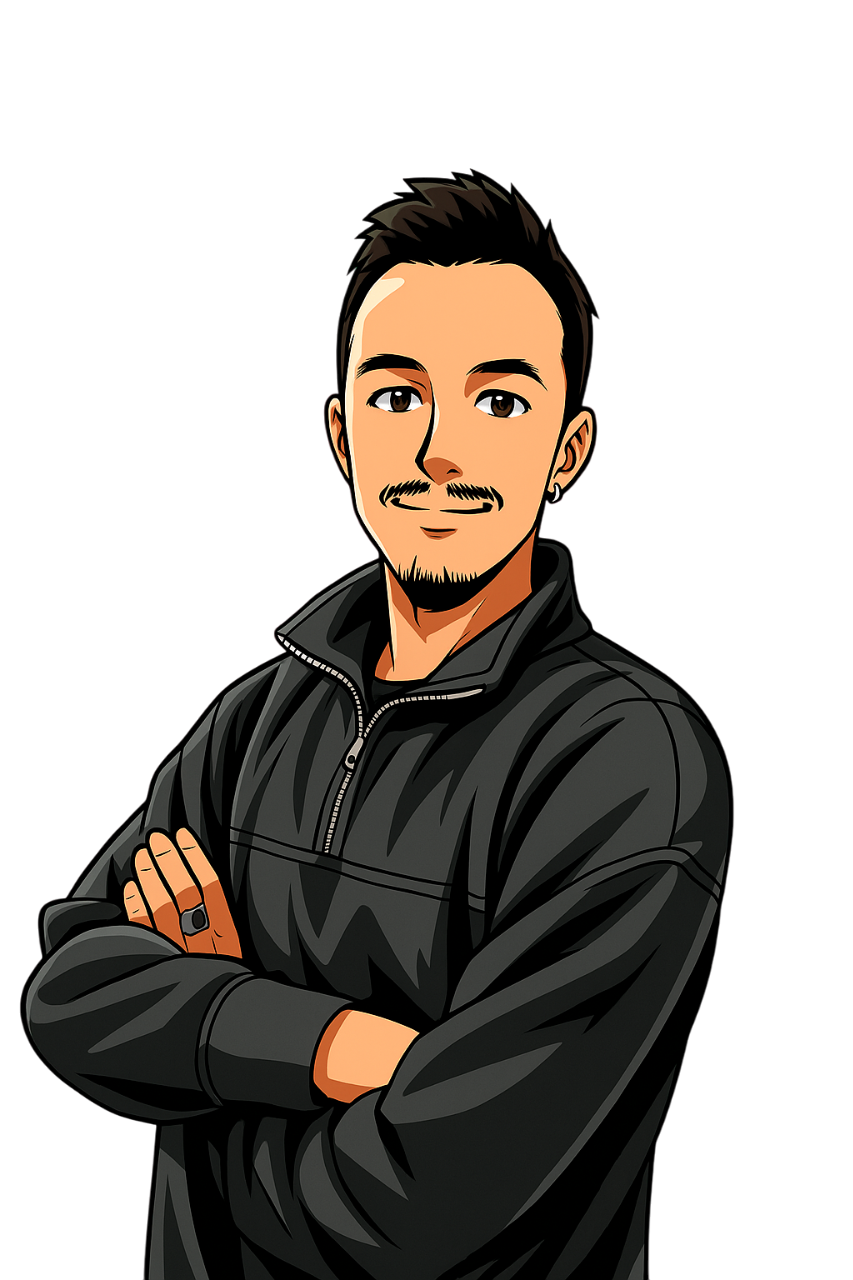
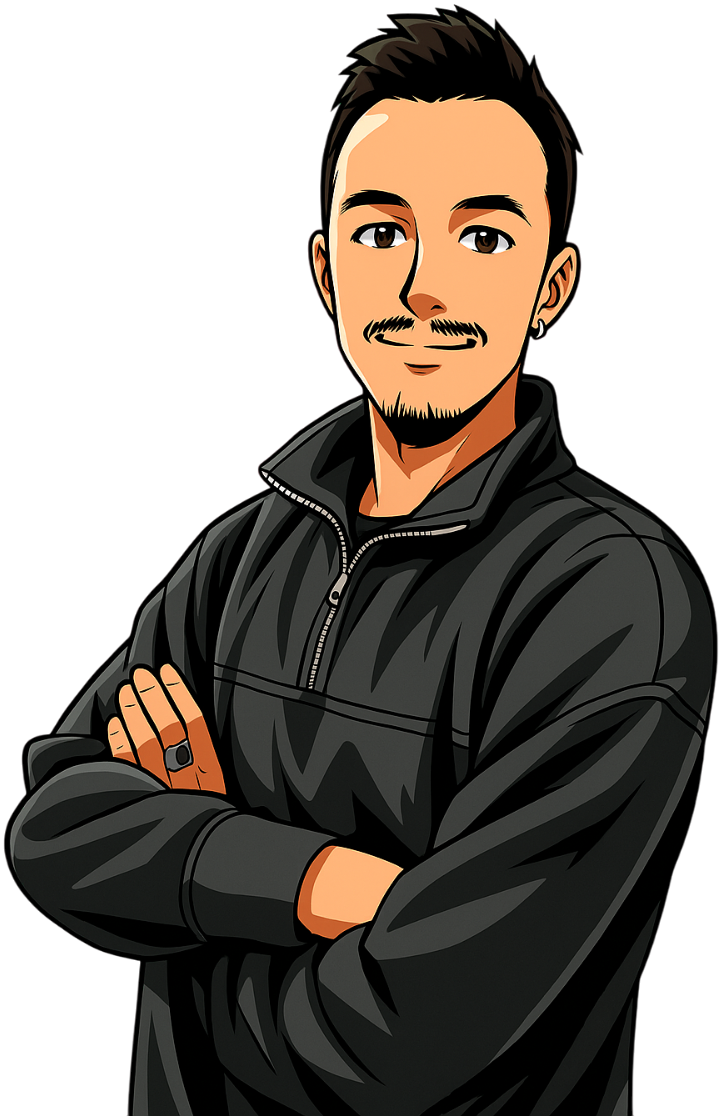
Improve Hero

diff --git a/src/components/Hero/Hero.tsx b/src/components/Hero/Hero.tsx
@@ -1,10 +1,106 @@
 'use client'
 
 import { motion } from 'framer-motion'
+import { useState, useEffect, useRef } from 'react'
 import ProfileIllustration from '../ProfileIllustration'
 import styles from './Hero.module.scss'
 
+// Composant pour l'effet machine à écrire
+function TypewriterTitle({ onComplete }: { onComplete: () => void }) {
+  const [displayedBonjour, setDisplayedBonjour] = useState('')
+  const [displayedJeSuis, setDisplayedJeSuis] = useState('')
+  const [displayedName, setDisplayedName] = useState('')
+  const [showCursor, setShowCursor] = useState(true)
+  const onCompleteRef = useRef(onComplete)
+  
+  // Mettre à jour la ref quand onComplete change
+  onCompleteRef.current = onComplete
+  
+  const bonjour = "Bonjour,"
+  const jeSuis = "je suis "
+  const fullName = "Nicolas FARACI"
+  
+  useEffect(() => {
+    const typeText = async () => {
+      // Attendre avant de commencer (réduit)
+      await new Promise(resolve => setTimeout(resolve, 400))
+      
+      // 1. Taper "Bonjour," lettre par lettre (plus rapide)
+      for (let i = 0; i <= bonjour.length; i++) {
+        setDisplayedBonjour(bonjour.slice(0, i))
+        await new Promise(resolve => setTimeout(resolve, 45)) // 60ms -> 45ms
+      }
+      
+      // Pause réduite entre les phrases
+      await new Promise(resolve => setTimeout(resolve, 120))
+      
+      // 2. Taper "je suis " lettre par lettre (plus rapide)
+      for (let i = 0; i <= jeSuis.length; i++) {
+        setDisplayedJeSuis(jeSuis.slice(0, i))
+        await new Promise(resolve => setTimeout(resolve, 35)) // 50ms -> 35ms
+      }
+      
+      // Pause réduite avant le nom
+      await new Promise(resolve => setTimeout(resolve, 100))
+      
+      // 3. Taper le nom lettre par lettre (plus rapide)
+      for (let i = 0; i <= fullName.length; i++) {
+        setDisplayedName(fullName.slice(0, i))
+        await new Promise(resolve => setTimeout(resolve, 50)) // 70ms -> 50ms
+      }
+      
+      // Déclencher l'apparition plus rapidement
+      setTimeout(() => {
+        setShowCursor(false)
+        onCompleteRef.current() // Utiliser la ref pour éviter les dépendances
+      }, 400) // 800ms -> 400ms
+    }
+    
+    typeText()
+  }, []) // Pas de dépendances - l'effet ne se lance qu'une fois
+  
+  return (
+    <motion.h1 
+      className="text-3xl sm:text-4xl lg:text-5xl xl:text-6xl font-bold leading-tight"
+      initial={{ opacity: 0, y: 20 }}
+      animate={{ opacity: 1, y: 0 }}
+      transition={{ duration: 0.6, delay: 0.4 }}
+    >
+      <div className="text-theme-primary">
+        {displayedBonjour}
+      </div>
+      <div className="whitespace-nowrap">
+        <span className="text-theme-secondary">
+          {displayedJeSuis}
+        </span>
+        <span className="text-gradient-primary">
+          {displayedName}
+          {showCursor && (
+            <motion.span
+              className={styles.cursor}
+              animate={{ opacity: [1, 0] }}
+              transition={{
+                duration: 0.5,
+                repeat: Infinity,
+                repeatType: "reverse"
+              }}
+            >
+              |
+            </motion.span>
+          )}
+        </span>
+      </div>
+    </motion.h1>
+  )
+}
+
 export default function Hero() {
+  const [showContent, setShowContent] = useState(false)
+
+  const handleTypingComplete = () => {
+    setShowContent(true)
+  }
+
   return (
     <section id="hero" className={`min-h-screen flex items-center justify-center relative ${styles.heroSection}`}>
 
@@ -13,7 +109,7 @@ export default function Hero() {
           
           {/* Illustration à gauche */}
           <motion.div 
-            className="flex justify-center lg:justify-end relative"
+            className={`${styles.illustrationColumn} flex justify-center lg:justify-end relative`}
             initial={{ opacity: 0, x: -50 }}
             animate={{ opacity: 1, x: 0 }}
             transition={{ duration: 0.8, ease: "easeOut" }}
@@ -41,41 +137,39 @@ export default function Hero() {
 
           {/* Message à droite - texte direct sans card */}
           <motion.div 
-            className="text-center lg:text-left space-y-8 w-full"
+            className="text-center lg:text-left w-full flex flex-col justify-start"
             initial={{ opacity: 0, x: 50 }}
             animate={{ opacity: 1, x: 0 }}
             transition={{ duration: 0.8, delay: 0.2, ease: "easeOut" }}
           >
-            <motion.h1 
-              className="text-3xl sm:text-4xl lg:text-5xl xl:text-6xl font-bold leading-tight"
-              initial={{ opacity: 0, y: 20 }}
-              animate={{ opacity: 1, y: 0 }}
-              transition={{ duration: 0.6, delay: 0.4 }}
-            >
-              <div className="text-theme-primary">Bonjour,</div>
-              <div className="whitespace-nowrap">
-                <span className="text-theme-secondary">je suis </span>
-                <span className="text-gradient-primary">
-                  Nicolas FARACI
-                </span>
-              </div>
-            </motion.h1>
+            {/* Titre - espace fixe réservé */}
+            <div className="min-h-[120px] sm:min-h-[140px] lg:min-h-[160px] xl:min-h-[180px] flex items-start mb-4">
+              <TypewriterTitle onComplete={handleTypingComplete} />
+            </div>
             
-            <motion.p 
-              className="text-lg sm:text-xl lg:text-2xl xl:text-2xl leading-relaxed lg:pr-8 text-theme-secondary"
-              initial={{ opacity: 0, y: 20 }}
-              animate={{ opacity: 1, y: 0 }}
-              transition={{ duration: 0.6, delay: 0.6 }}
-            >
-              Développeur passionné par la création d&apos;expériences numériques innovantes
-            </motion.p>
+            {/* Description - espace fixe réservé */}
+            <div className="min-h-[80px] sm:min-h-[90px] lg:min-h-[100px] flex items-start mb-4">
+              {showContent && (
+                <motion.p 
+                  className="text-lg sm:text-xl lg:text-2xl xl:text-2xl leading-relaxed lg:pr-8 text-theme-secondary"
+                  initial={{ opacity: 0, y: 15 }}
+                  animate={{ opacity: 1, y: 0 }}
+                  transition={{ duration: 0.4, delay: 0.1 }}
+                >
+                  Développeur passionné par la création d&apos;expériences numériques innovantes
+                </motion.p>
+              )}
+            </div>
 
-            <motion.div 
-              className="flex flex-col lg:flex-row gap-4 justify-center lg:justify-start lg:pr-8"
-              initial={{ opacity: 0, y: 20 }}
-              animate={{ opacity: 1, y: 0 }}
-              transition={{ duration: 0.6, delay: 0.8 }}
-            >
+            {/* Boutons - espace fixe réservé */}
+            <div className="min-h-[60px] flex items-start">
+              {showContent && (
+                <motion.div 
+                  className="flex flex-col lg:flex-row gap-4 justify-center lg:justify-start lg:pr-8 w-full"
+                  initial={{ opacity: 0, y: 15 }}
+                  animate={{ opacity: 1, y: 0 }}
+                  transition={{ duration: 0.4, delay: 0.2 }}
+                >
               <motion.button 
                 className="px-6 py-3 bg-gradient-primary text-white rounded-full font-semibold transition-transform duration-200 shadow-lg whitespace-nowrap"
                 onClick={() => {
@@ -100,7 +194,9 @@ export default function Hero() {
               >
                 Me contacter
               </motion.button>
-            </motion.div>
+                </motion.div>
+              )}
+            </div>
           </motion.div>
         </div>
       </div>

diff --git a/src/components/Hero/Hero.module.scss b/src/components/Hero/Hero.module.scss
@@ -66,6 +66,48 @@
   }
 }
 
+// Style pour la colonne d'illustration avec débordement léger
+.illustrationColumn {
+  // Sur desktop, on permet un léger débordement vers la droite
+  @media (min-width: 1024px) {
+    // On étend légèrement vers la droite sans affecter la grille
+    padding-right: 0;
+    margin-right: -8%;
+    z-index: 10;
+  }
+  
+  @media (min-width: 1280px) {
+    margin-right: -12%;
+  }
+  
+  @media (min-width: 1536px) {
+    margin-right: -15%;
+  }
+}
+
+// Style pour le curseur de l'effet machine à écrire
+.cursor {
+  display: inline-block;
+  font-weight: normal;
+  color: var(--primary, #00BBC9);
+  margin-left: 3px;
+  font-size: 1em;
+  line-height: 1;
+}
+
+// Adaptation pour le thème sombre
+:global([data-theme="dark"]) .cursor {
+  color: var(--primary, #00BBC9);
+  text-shadow: 0 0 8px rgba(0, 187, 201, 0.6);
+}
+
+@media (prefers-color-scheme: dark) {
+  .cursor {
+    color: var(--primary, #00BBC9);
+    text-shadow: 0 0 8px rgba(0, 187, 201, 0.6);
+  }
+}
+
 :global([data-theme="dark"]) .heroSection {
   background: linear-gradient(135deg, 
     var(--bg-primary) 0%,

diff --git a/src/components/ProfileIllustration/ProfileIllustration.tsx b/src/components/ProfileIllustration/ProfileIllustration.tsx
@@ -12,8 +12,8 @@ interface ProfileIllustrationProps {
 export default function ProfileIllustration({ src, alt = "Nicolas FARACI - Portrait" }: ProfileIllustrationProps) {
   return (
     <motion.div 
-      className="relative z-10 w-96 h-[28rem] lg:w-[28rem] lg:h-[32rem] xl:w-[32rem] xl:h-[36rem]"
-      whileHover={{ scale: 1.03 }}
+      className="relative z-10 w-96 h-[28rem] lg:w-[32rem] lg:h-[36rem] xl:w-[38rem] xl:h-[42rem]"
+      whileHover={{ scale: 1.02 }}
       transition={{ duration: 0.3 }}
     >
       <div className="w-full h-full flex items-end justify-center">
